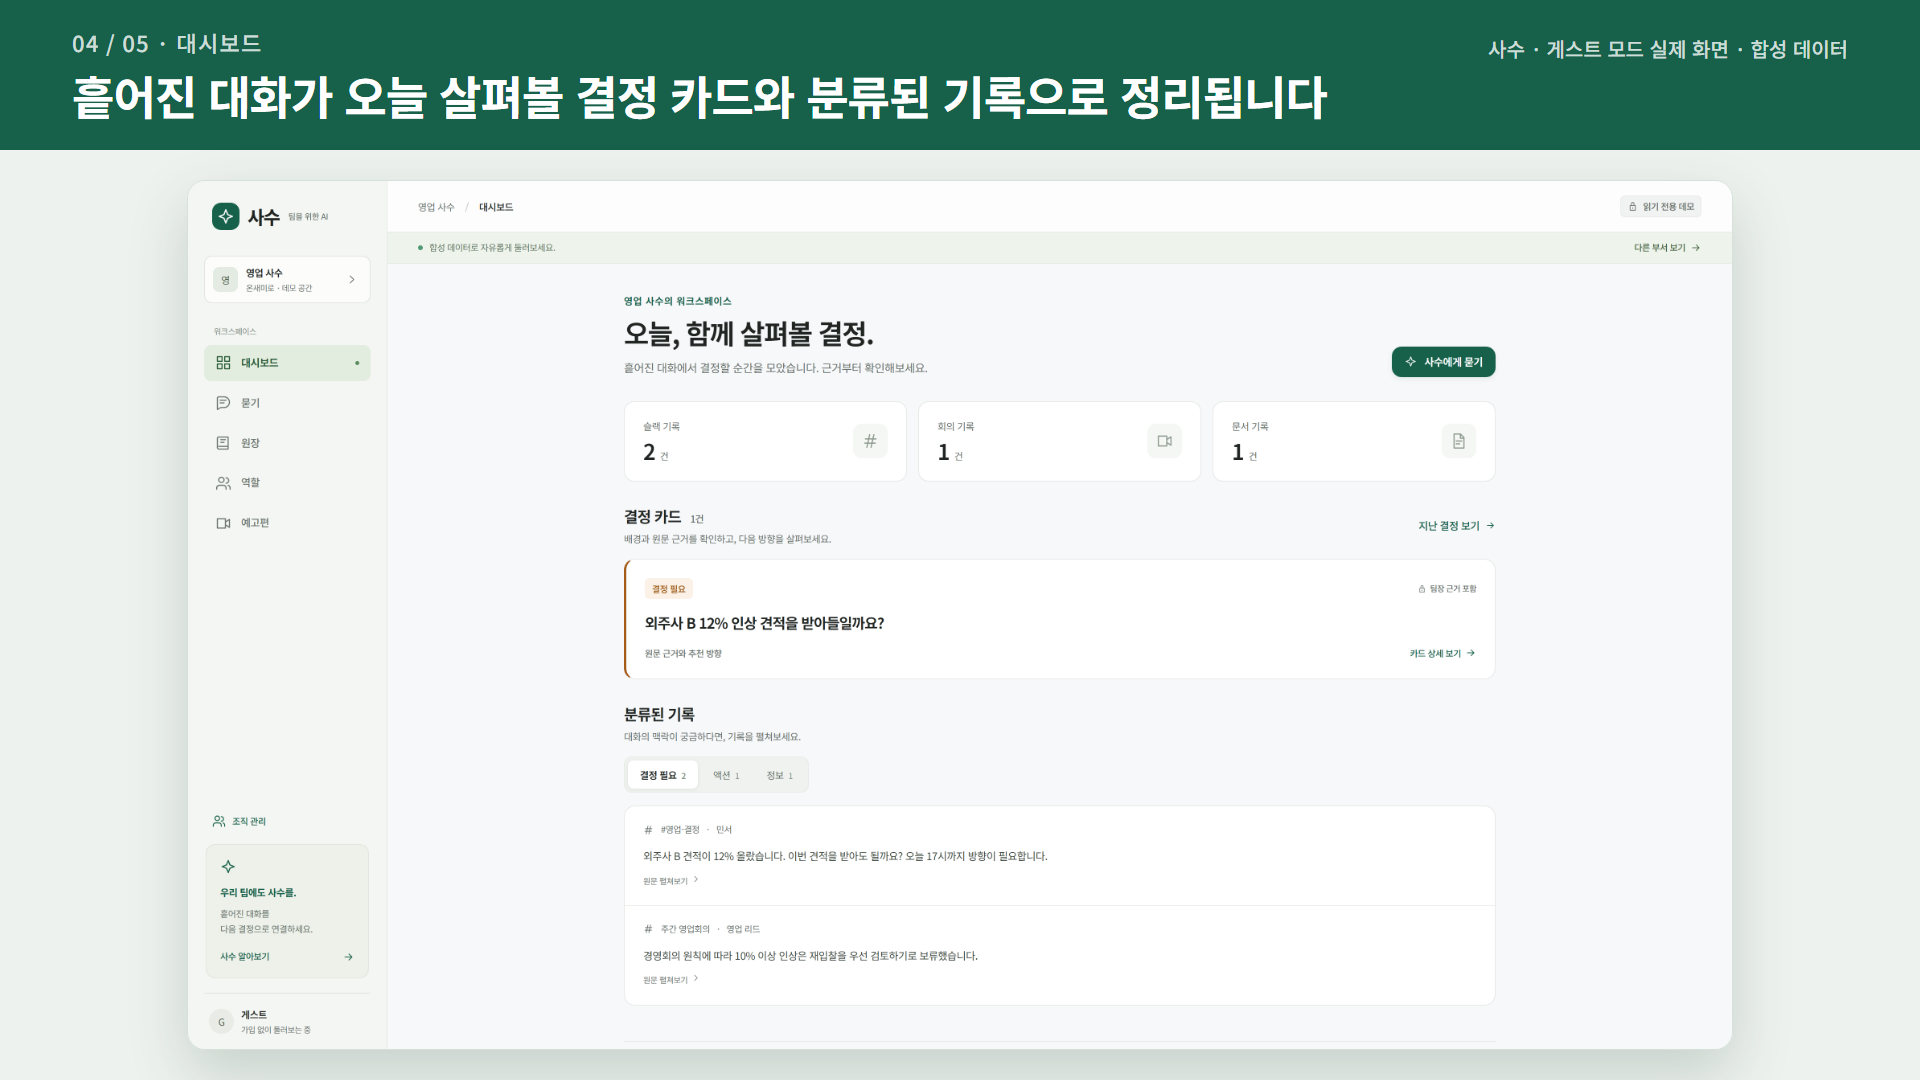
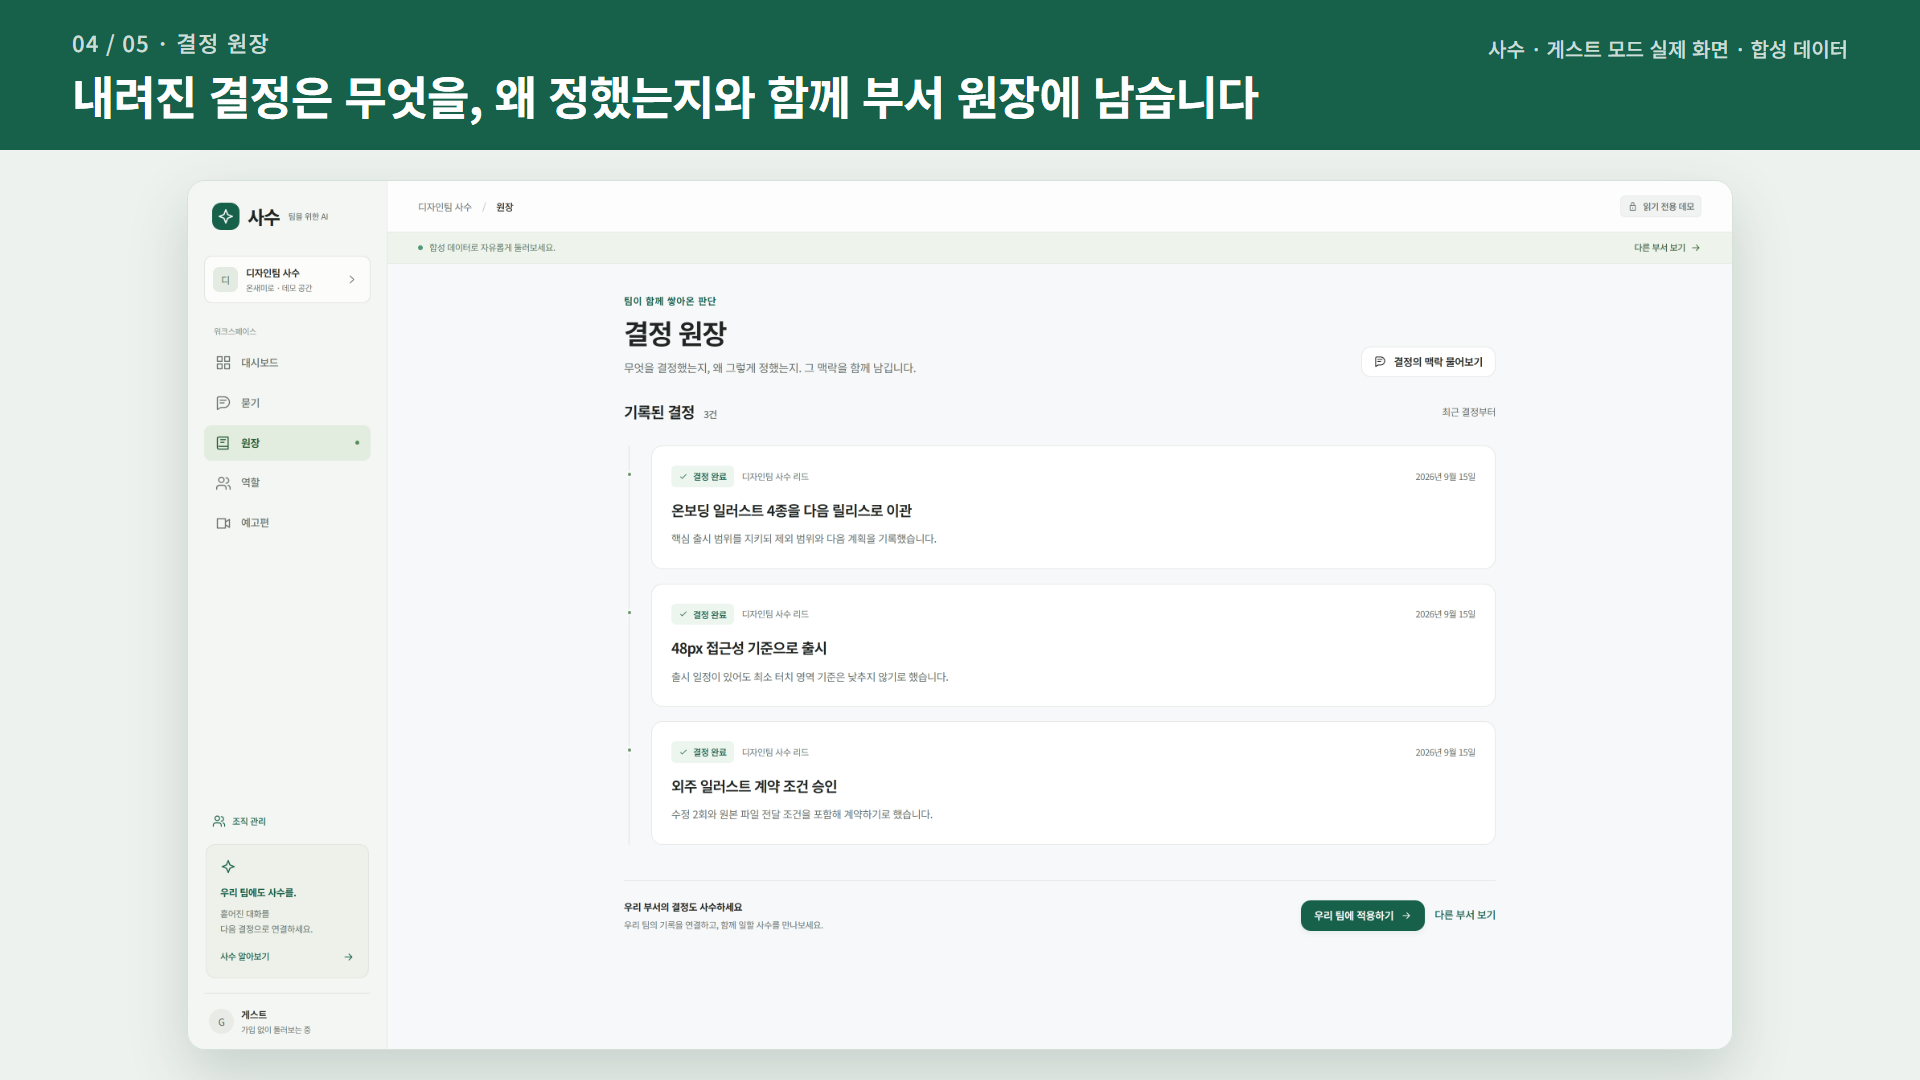
docs: add the hiring trailer slide and replace README mockups with real captures
Submission screenshots: per the user's decision the dashboard slide is
dropped and slide 5 becomes the hiring trailer (synthetic case): the
guest virtualization view (ledger decision -> virtualized version, gate
counts, 12/12 approvals) next to the public trailer office showing the
same scenario, captured after the demo seed name fix. The ledger moves to
slide 4. A Slack @사수 slide will replace one of the five once Slack
answers show citations and are verified in a real workspace (phase 14).

README: the two 9/8 mockup images showed features that do not exist or
break invariants ("1 document excluded", "admins can always read"). They
are replaced by unnumbered copies of the real decision card, grounded
answer and trailer slides. The feature table no longer claims one-tap
meeting recording or an "accept" DM button, and lists document import,
the org admin console and the synthetic hiring trailer.

Claude-Session: https://claude.ai/code/session_019fPwXk95aY51KVhtH8r9w1

diff --git a/docs/submission-checklist.md b/docs/submission-checklist.md
@@ -78,18 +78,21 @@
 | 1 | `sasushot1.png` | 영업 사수 결정 카드(웹) | "지금 결정" 배지, "외주사 B 12% 인상 견적을 받아들일까요?", 배경, 슬랙(민서)·회의(영업 리드) 원문 인용, "과거 결정과 충돌 확인", 추천 방향 | "슬랙과 회의에 흩어진 결정 요청이, 원문 근거와 함께 카드로 도착합니다" | 3 |
 | 2 | `sasushot2.png` | 영업 사수 묻기(질문 목록·답변 확대) | "외주사 B 견적을 받아도 되나요?" — 사수 답(12% 인상안·10% 이상 인상 시 재입찰 원칙) + 슬랙 원문 인용 + 범용 AI 답 비교 | "같은 질문에 범용 AI는 일반론을, 사수는 우리 부서의 기록을 인용해 답합니다" | 4 |
 | 3 | `sasushot3.png` | 영업 / 개발 사수 답변 2분할 | 같은 질문 "언제까지 결정해야 하나요?" — 영업은 외주사 B 견적의 17시 마감, 개발은 오늘 배포 여부를 각자 부서 슬랙 인용으로 답한다. 범용 AI 답은 둘 다 같다 | "회사 전체를 아는 AI는 없습니다. 사수는 우리 부서를 압니다" | 4' |
-| 4 | `sasushot4.png` | 영업 사수 대시보드 | 슬랙 2·회의 1·문서 1건, 결정 카드 1건, 분류된 기록(결정 필요·액션·정보 탭) | "흩어진 대화가 오늘 살펴볼 결정 카드와 분류된 기록으로 정리됩니다" | 2 |
-| 5 | `sasushot5.png` | 디자인팀 사수 원장 | 결정 완료 3건 — 무엇을 정했는지·결정자·날짜·이유 | "내려진 결정은 무엇을, 왜 정했는지와 함께 부서 원장에 남습니다" | 5 |
+| 4 | `sasushot4.png` | 디자인팀 사수 원장 | 결정 완료 3건 — 무엇을 정했는지·결정자·날짜·이유 | "내려진 결정은 무엇을, 왜 정했는지와 함께 부서 원장에 남습니다" | 5 |
+| 5 | `sasushot5.png` | 채용 예고편(합성 사례) — 게스트 개발 사수 `예고편`의 가상화 과정 + 공개 체험 `/t/onsaemiro2026demotrail` 오피스 | 원문(원장의 결정 "스테이징 로그 대시보드 추가"·원칙 문서 1개) → 가상화본(원문 20자 겹침 0·고유명사 0·개인정보 형식 0·형식 오류 0, 공개 승인 12 / 12, 사례 요약) / 같은 사례가 뜬 오피스 퀘스트 패널과 동료들 | "부서의 결정을 가상화해, 지원자가 입사 전에 직무를 먼저 경험합니다" | §3-2 예고편 |
 
-**v3 구상에서 바뀐 점** — ADR-043(제품 화면은 게스트 모드 실제 캡처만)에 맞췄다.
+**9/15 저녁 구성 변경 (사용자 결정)**: 대시보드를 빼고 채용 예고편을 넣었다. 점수표(합성 지원자 채점)는 "평가·순위"로 읽힐 수 있어 넣지 않았다. 슬랙 `@사수` 질문 화면은 슬랙 답변에 인용을 보여주는 기능(phase 14)이 운영에 반영되고 실제 워크스페이스에서 확인된 뒤 이 5장 중 한 장을 대체한다. 어느 장을 대체할지는 실제 캡처를 보고 정한다. 그 전까지는 위 5장이 제출 가능한 구성이다.
+
+**v3 구상에서 바뀐 점** — 실제 운영 화면만 쓴다(PRD §8-3 "실제로 동작하는 것만". 메인 사이트용 ADR-043의 "실제 캡처만" 원칙을 제출물에도 적용한다).
 - 1번: 폰 목업 속 슬랙 DM → 웹 결정 카드. 게스트 모드에는 슬랙 DM 화면이 없고 목업은 만들지 않는다. 게스트는 읽기 전용이라 [결정 / 보류 / 반려] 버튼도 없다.
 - 2번: 팀장/팀원 2분할 → 사수 답과 범용 AI 답 비교. 게스트 모드에는 권한별 답을 실제로 나눠 보여주는 화면이 없다. 디자인팀 준비 질문 "팀장이 보는… / 팀원이 보는…"은 두 답의 인용 원문이 모두 부서 전체 공개 슬랙이라 권한 차이의 증거로 쓰지 않았다. 권한별 답은 §5 본문과 검증 기록으로 말한다.
 - 3번: "단가 정책 어떻게 잡죠?" → 게스트에 준비된 "언제까지 결정해야 하나요?". 원칙 문서 대신 각 부서 슬랙 기록을 인용한다.
-- 4·5번: 원장과 대시보드 순서를 바꿨다(카드 → 답 → 부서 → 대시보드 → 원장). 원장에는 "과거 결정과 충돌"·"마감 지남" 배지가 없어 캡션에서 뺐고(충돌 표시는 1번 카드에 있다), `/demo` 입구 화면은 넣지 않았다.
+- 4번: 원장에는 "과거 결정과 충돌"·"마감 지남" 배지가 없어 캡션에서 뺐다(충돌 표시는 1번 카드에 있다). `/demo` 입구 화면은 넣지 않았다.
+- 5번: v3 구상에는 없던 장이다. ADR-045에 따라 "합성 사례"를 단계 표시와 오른쪽 위 표기에 붙였다.
 
-**촬영 기록**: 2026-09-15 16시 KST, 운영 배포 `dpl_Hq6oWYaRH9BqxRZD3ScRzZQgQLMq`의 게스트 경로(쓰기·LLM 호출 없음)를 2배 해상도로 캡처해 1920×1080 슬라이드로 합성했다. 창 크기 1920×1080, 3번 답변 패널만 인용문이 한 줄에 들어가도록 1230px 폭 데스크톱 레이아웃에서 찍었다.
+**촬영 기록**: 1~4번은 2026-09-15 16시 KST 운영 배포 `dpl_Hq6oWYaRH9BqxRZD3ScRzZQgQLMq`의 게스트 경로(쓰기·LLM 호출 없음)를 2배 해상도로 캡처해 1920×1080 슬라이드로 합성했다. 창 크기 1920×1080, 3번 답변 패널만 인용문이 한 줄에 들어가도록 1230px 폭 데스크톱 레이아웃에서 찍었다. 5번은 같은 날 22시 데모 예고편의 실존 회사명을 정정해 운영 데모 시드를 다시 돌린 뒤(`695387c`, [기록](verification/O10-O12-production.md)) 게스트 가상화 과정과 공개 체험 오피스를 같은 방식으로 찍었다. 두 페이지 모두 쓰기 요청 0.
 
-**촬영 원칙**: 합성 데이터만(우리 팀 실데이터 금지 — 유의사항 개인정보·비밀정보) · 게스트 모드 실제 화면만(HTML 재현·목업 금지) · 제출 전에 UI가 다시 바뀌면 같은 구성으로 다시 찍는다.
+**촬영 원칙**: 합성 데이터만(우리 팀 실데이터 금지 — 유의사항 개인정보·비밀정보) · 실제 운영 화면만(HTML 재현·목업 금지) · 슬랙 화면은 합성 데이터의 실제 워크스페이스 캡처일 때만 쓴다 · 제출 전에 UI가 다시 바뀌면 같은 구성으로 다시 찍는다.
 
 ---
 

diff --git a/README.md b/README.md
@@ -6,7 +6,7 @@
 내려진 결정을 근거와 함께 원장에 남기는 부서별 의사결정 AI입니다. 같은 질문에도 질문자의
 권한과 부서 문맥에 맞는 근거만 사용해 답합니다.
 
-![회의에서 결정 요청까지 이어지는 사수](docs/readme/decision-queue.png)
+![영업 사수의 결정 카드 — 슬랙·회의 원문 인용과 과거 결정 충돌 확인 (게스트 모드 실제 화면, 합성 데이터)](docs/readme/decision-card.png)
 
 ## 문제
 
@@ -23,15 +23,20 @@
 
 | 기능 | 설명 |
 |---|---|
-| 결정 큐 | 지금 결정할 안건, 담당자, 마감, 상태를 한눈에 정리 |
-| Slack 카드 | 담당자 DM에서 수락·보류·결정하고 원장에 자동 반영 |
-| 회의 수집 | 원탭 녹음 또는 전사 파일로 회의를 수집·정리 |
+| 결정 카드 | 결정이 필요한 안건을 찾아 배경·원문 인용·추천 방향을 담아 담당자에게 보냄 |
+| Slack DM | 담당자에게 DM으로 카드를 보내고 [결정]·[보류]·[반려] 버튼 제공 — [결정]은 사유를 받아 원장에 기록 |
+| 회의 전사 | Zoom·Meet 전사 파일(.vtt/.txt)을 올려 안건을 정리 (회의 봇은 로드맵) |
 | 결정 원장 | 누가·언제·왜·어떤 근거로 결정했는지 append-only 기록 |
-| 권한 인지 Q&A | RLS와 동일한 가시성 규칙으로 질문자별 답변 생성 |
-| 과거 결정 충돌 | 새 안건이 기존 원칙·결정과 충돌하면 먼저 알림 |
+| 권한 인지 Q&A | 질문자가 볼 수 있는 기록만 인용해 답변 (웹은 질문자 권한, 슬랙 채널 `@사수`는 팀원 권한) |
+| 과거 결정 충돌 | 새 안건이 기존 원칙·결정과 충돌하면 카드에서 먼저 알림 |
+| 문서 가져오기 | TXT·MD·CSV·JSON·PDF·DOCX 업로드와 근거 기반 요약 |
+| 조직 관리자 | 부서·첫 부서장 초대·수집 채널·기록 조회 (관리자 권한만으로는 부서 내용을 볼 수 없음) |
+| 채용 예고편 | 원장의 결정을 가상화한 업무 체험을 공개 링크로 발행 (합성 사례·합성 지원자로만 시연, 실제 지원자 채점은 꺼져 있음) |
 | 게스트 모드 | 로그인과 외부 연동 없이 합성 데이터로 전체 흐름 체험 |
 
-![질문자의 권한에 따라 달라지는 근거 기반 답변](docs/readme/permission-aware-qa.png)
+![같은 질문에 부서 기록을 인용한 사수의 답과 범용 AI의 답 비교 (게스트 모드 실제 화면, 합성 데이터)](docs/readme/grounded-answer.png)
+
+![채용 예고편 — 원장의 결정을 가상화하고 가상 오피스에서 직무를 먼저 경험 (운영 실제 화면, 합성 사례)](docs/readme/hiring-trailer.webp)
 
 ## 설계 원칙
 
